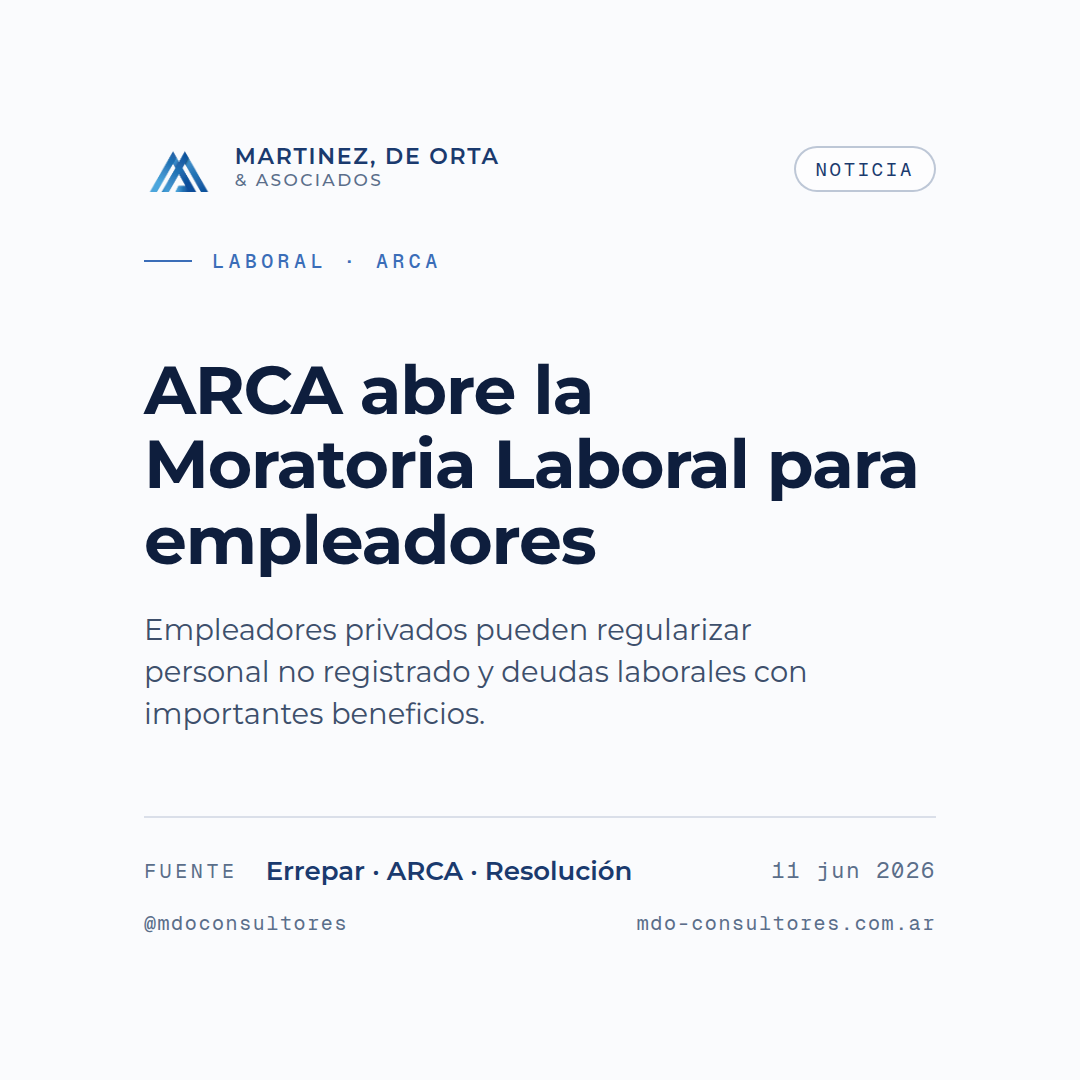
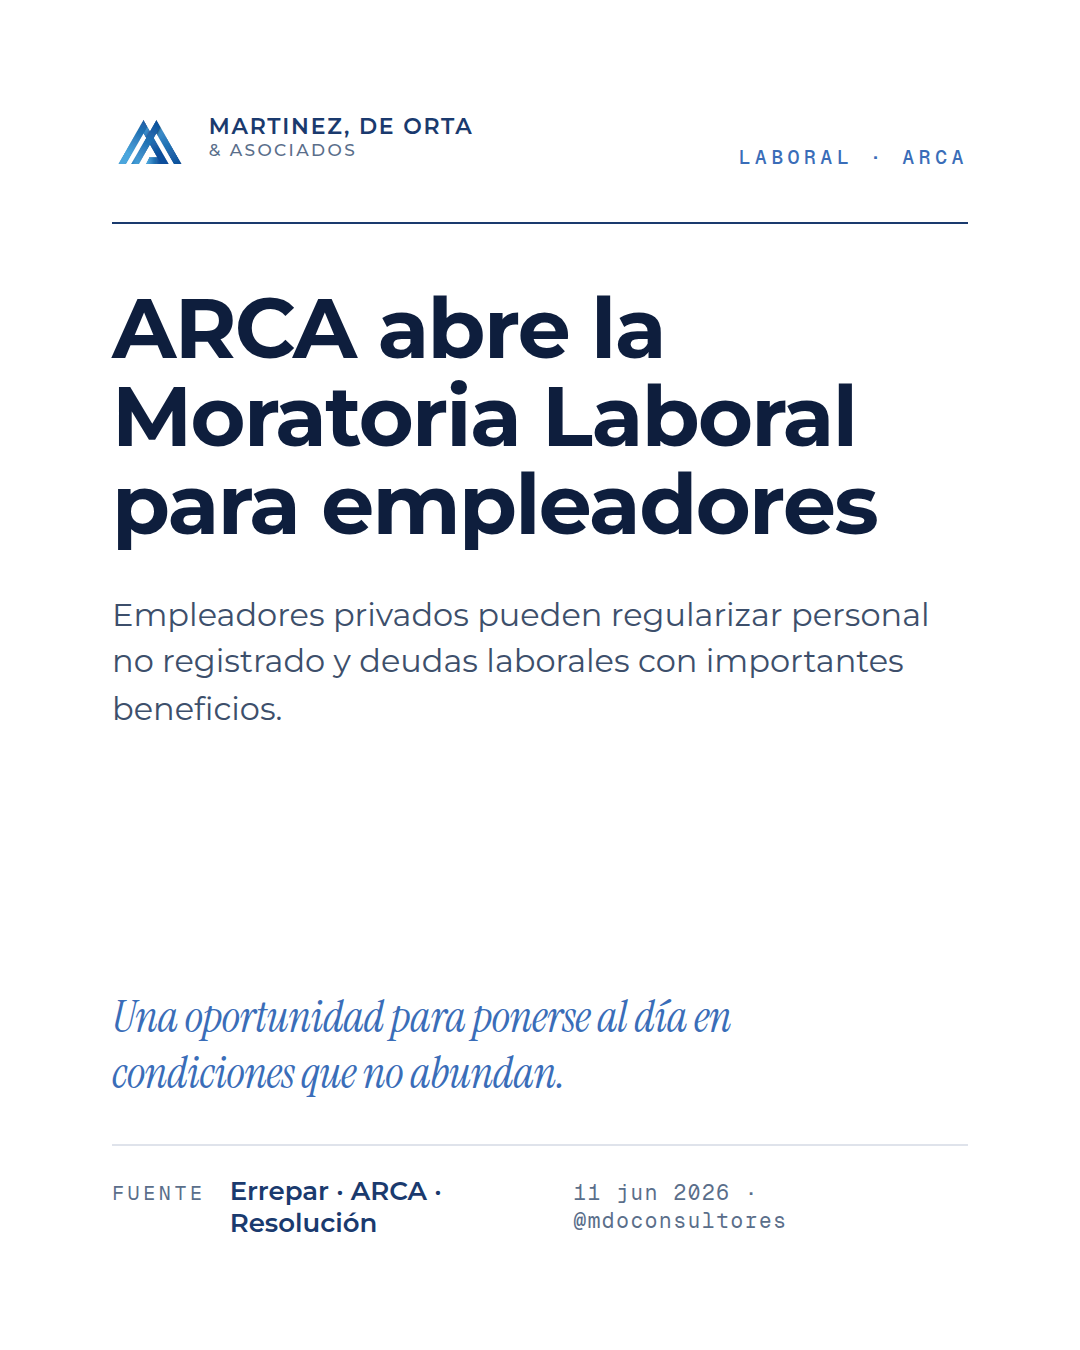
feed: noticias pasan a vertical 4:5 (po-13c) + formatos correctos en skill

diff --git a/mdo-templates/templates-variants-light.jsx b/mdo-templates/templates-variants-light.jsx
@@ -271,7 +271,7 @@ function PoNoticiaMinimal(props) {
   }, props);
 
   return (
-    <div className="tpl white" style={{ padding: 40, display: 'flex', flexDirection: 'column' }}>
+    <div className="tpl white" style={{ padding: 56, display: 'flex', flexDirection: 'column' }}>
       <div style={{ display: 'flex', justifyContent: 'space-between', alignItems: 'baseline' }}>
         <Lockup size={26} />
         <span className="eyebrow">{p.categoria}</span>

diff --git a/.claude/skills/mdo-rutina-semanal/SKILL.md b/.claude/skills/mdo-rutina-semanal/SKILL.md
@@ -21,15 +21,29 @@ Ejecutar **todos los lunes 9hs Argentina (UTC-3)** para armar los 4 posteos de l
 
 | # | Día/Hora (ARG) | Tipo | Template | Fuente del contenido |
 |---|---|---|---|---|
-| 1 | Lunes 9hs     | Noticia destacada #1         | `sq-12` (Square 1080×1080)   | Gmail newsletter |
-| 2 | Miércoles 9hs | Noticia destacada #2         | `sq-12` (Square 1080×1080)   | Gmail newsletter |
-| 3 | Jueves 9hs    | Story CTA **o** Carrusel (*) | `st-09` **o** `cb-*`         | Basado en noticias de la semana |
+| 1 | Lunes 9hs     | Noticia destacada #1         | `po-13c` (Portrait 1080×1350) | Gmail newsletter |
+| 2 | Miércoles 9hs | Noticia destacada #2         | `po-13c` (Portrait 1080×1350) | Gmail newsletter |
+| 3 | Jueves 9hs    | Story CTA **o** Carrusel (*) | `st-09` (Story 1080×1920) **o** `cb-*` (1080×1350) | Basado en noticias de la semana |
 | 4 | Viernes 9hs   | Gestión PyME (tip genérico)  | `po-04` (Portrait 1080×1350) | Generado por LLM |
 | 5 | Sábado 11hs (**) | Spotlight de servicio (quincenal) | `po-16` (Portrait 1080×1350) | Generado por LLM · **solo Instagram** |
 
 (*) **Jueves — alternancia por semana ISO**: `$(( $(date +%V) % 2 ))` → `1` = semana impar → **story `st-09`** · `0` = semana par → **carrusel `cb-*`**
 
 (**) **Sábado — solo semanas pares** (`$(( $(date +%V) % 2 )) == 0`): post institucional de marca para variar el formato del feed. **Solo Instagram, NO LinkedIn.** Ver sección 3c.
+
+### ⚠ Formatos correctos de imagen (regla dura — Instagram 2026)
+
+Instagram dejó de priorizar el cuadrado: **la grilla del perfil ahora muestra todo en vertical 3:4 y recorta los cuadrados**. Por eso TODOS los posts de feed van en **vertical**, nunca en cuadrado (1:1).
+
+| Destino | Ratio | Píxeles | Templates |
+|---|---|---|---|
+| **Feed (post)** | **4:5 vertical** | **1080 × 1350** | `po-13c`, `po-04`, `po-16`, carrusel `cb-*` |
+| **Historia (story)** | **9:16 vertical** | **1080 × 1920** | `st-09` |
+
+- ❌ **NUNCA usar `sq-12` ni ningún template cuadrado (1080×1080) para el feed** — se recorta en la grilla.
+- **Zona segura**: logo, titular y CTA lejos de los bordes superior e inferior (la grilla 3:4 le recorta ~12% arriba/abajo a un post 4:5). Los templates ya traen padding generoso; si se edita uno, no bajar de ese margen.
+- En las **historias**, además, dejar libre el ~15% superior e inferior (ahí Instagram superpone su UI). Renderizar con `?safe=1` para ver los overlays de zona segura.
+- (Opción cero-recorte: 3:4 → 1080×1440, pero requiere rediseñar la altura de los templates. El 4:5 es el estándar y ya está validado en producción.)
 
 ## Paso a paso
 
@@ -58,10 +72,11 @@ Reglas:
 - Preferir noticias con fuente clara y verificable
 - Evitar opinión política partidaria
 
-Para cada noticia extraer:
+Para cada noticia extraer (slots del template `po-13c` — Noticia vertical 4:5):
 - `CATEGORIA` — eyebrow corto, ej: "Impuestos · ARCA", "Régimen Simplificado", "PyMEs"
 - `TITULAR` — máximo 70 caracteres, redactado por nosotros (no copiar el del medio)
 - `BAJADA` — 1-2 líneas (máx 180 chars) que expliquen la novedad concreta
+- `CIERRE` — frase de cierre editorial breve en serif (máx ~90 chars), ej: "Un cambio que conviene resolver con tiempo." (en noticias SÍ se pueden mencionar datos/plazos reales — la regla dura de no-números aplica solo al tip del viernes y al spotlight del sábado)
 - `FUENTE` — medio + tipo de comunicación, ej: "Cronista · Nota", "ARCA · Resolución oficial"
 - `FECHA` — fecha de la noticia, formato "21 may 2026"
 - `HANDLE` — siempre `@mdoconsultores`
@@ -216,17 +231,17 @@ Para cada post:
 
 ```bash
 node scripts/render.js \
-  --template sq-12 \
+  --template po-13c \
   --out posts/YYYY-MM-DD-N.png \
-  --slots '{"CATEGORIA":"...","TITULAR":"...",...}'
+  --slots '{"CATEGORIA":"...","TITULAR":"...","BAJADA":"...","CIERRE":"...","FUENTE":"...","FECHA":"...","HANDLE":"@mdoconsultores"}'
 ```
 
-Templates por día:
-- Lunes y miércoles: `--template sq-12`
-- Jueves (story): `--template st-09`
+Templates por día (todos verticales — ver "Formatos correctos de imagen"):
+- Lunes y miércoles: `--template po-13c` (noticia vertical 4:5 · 1080×1350)
+- Jueves (story): `--template st-09` (9:16 · 1080×1920)
 - Jueves (carrusel): renderizar cada slide con su template (`cb-cover`, `cb-tip1`, etc.)
-- Viernes: `--template po-04`
-- Sábado (solo semanas pares): `--template po-16`
+- Viernes: `--template po-04` (4:5 · 1080×1350)
+- Sábado (solo semanas pares): `--template po-16` (4:5 · 1080×1350)
 
 Nombrado: `posts/YYYY-MM-DD-N.png` donde:
 - `YYYY-MM-DD` = fecha de publicación
